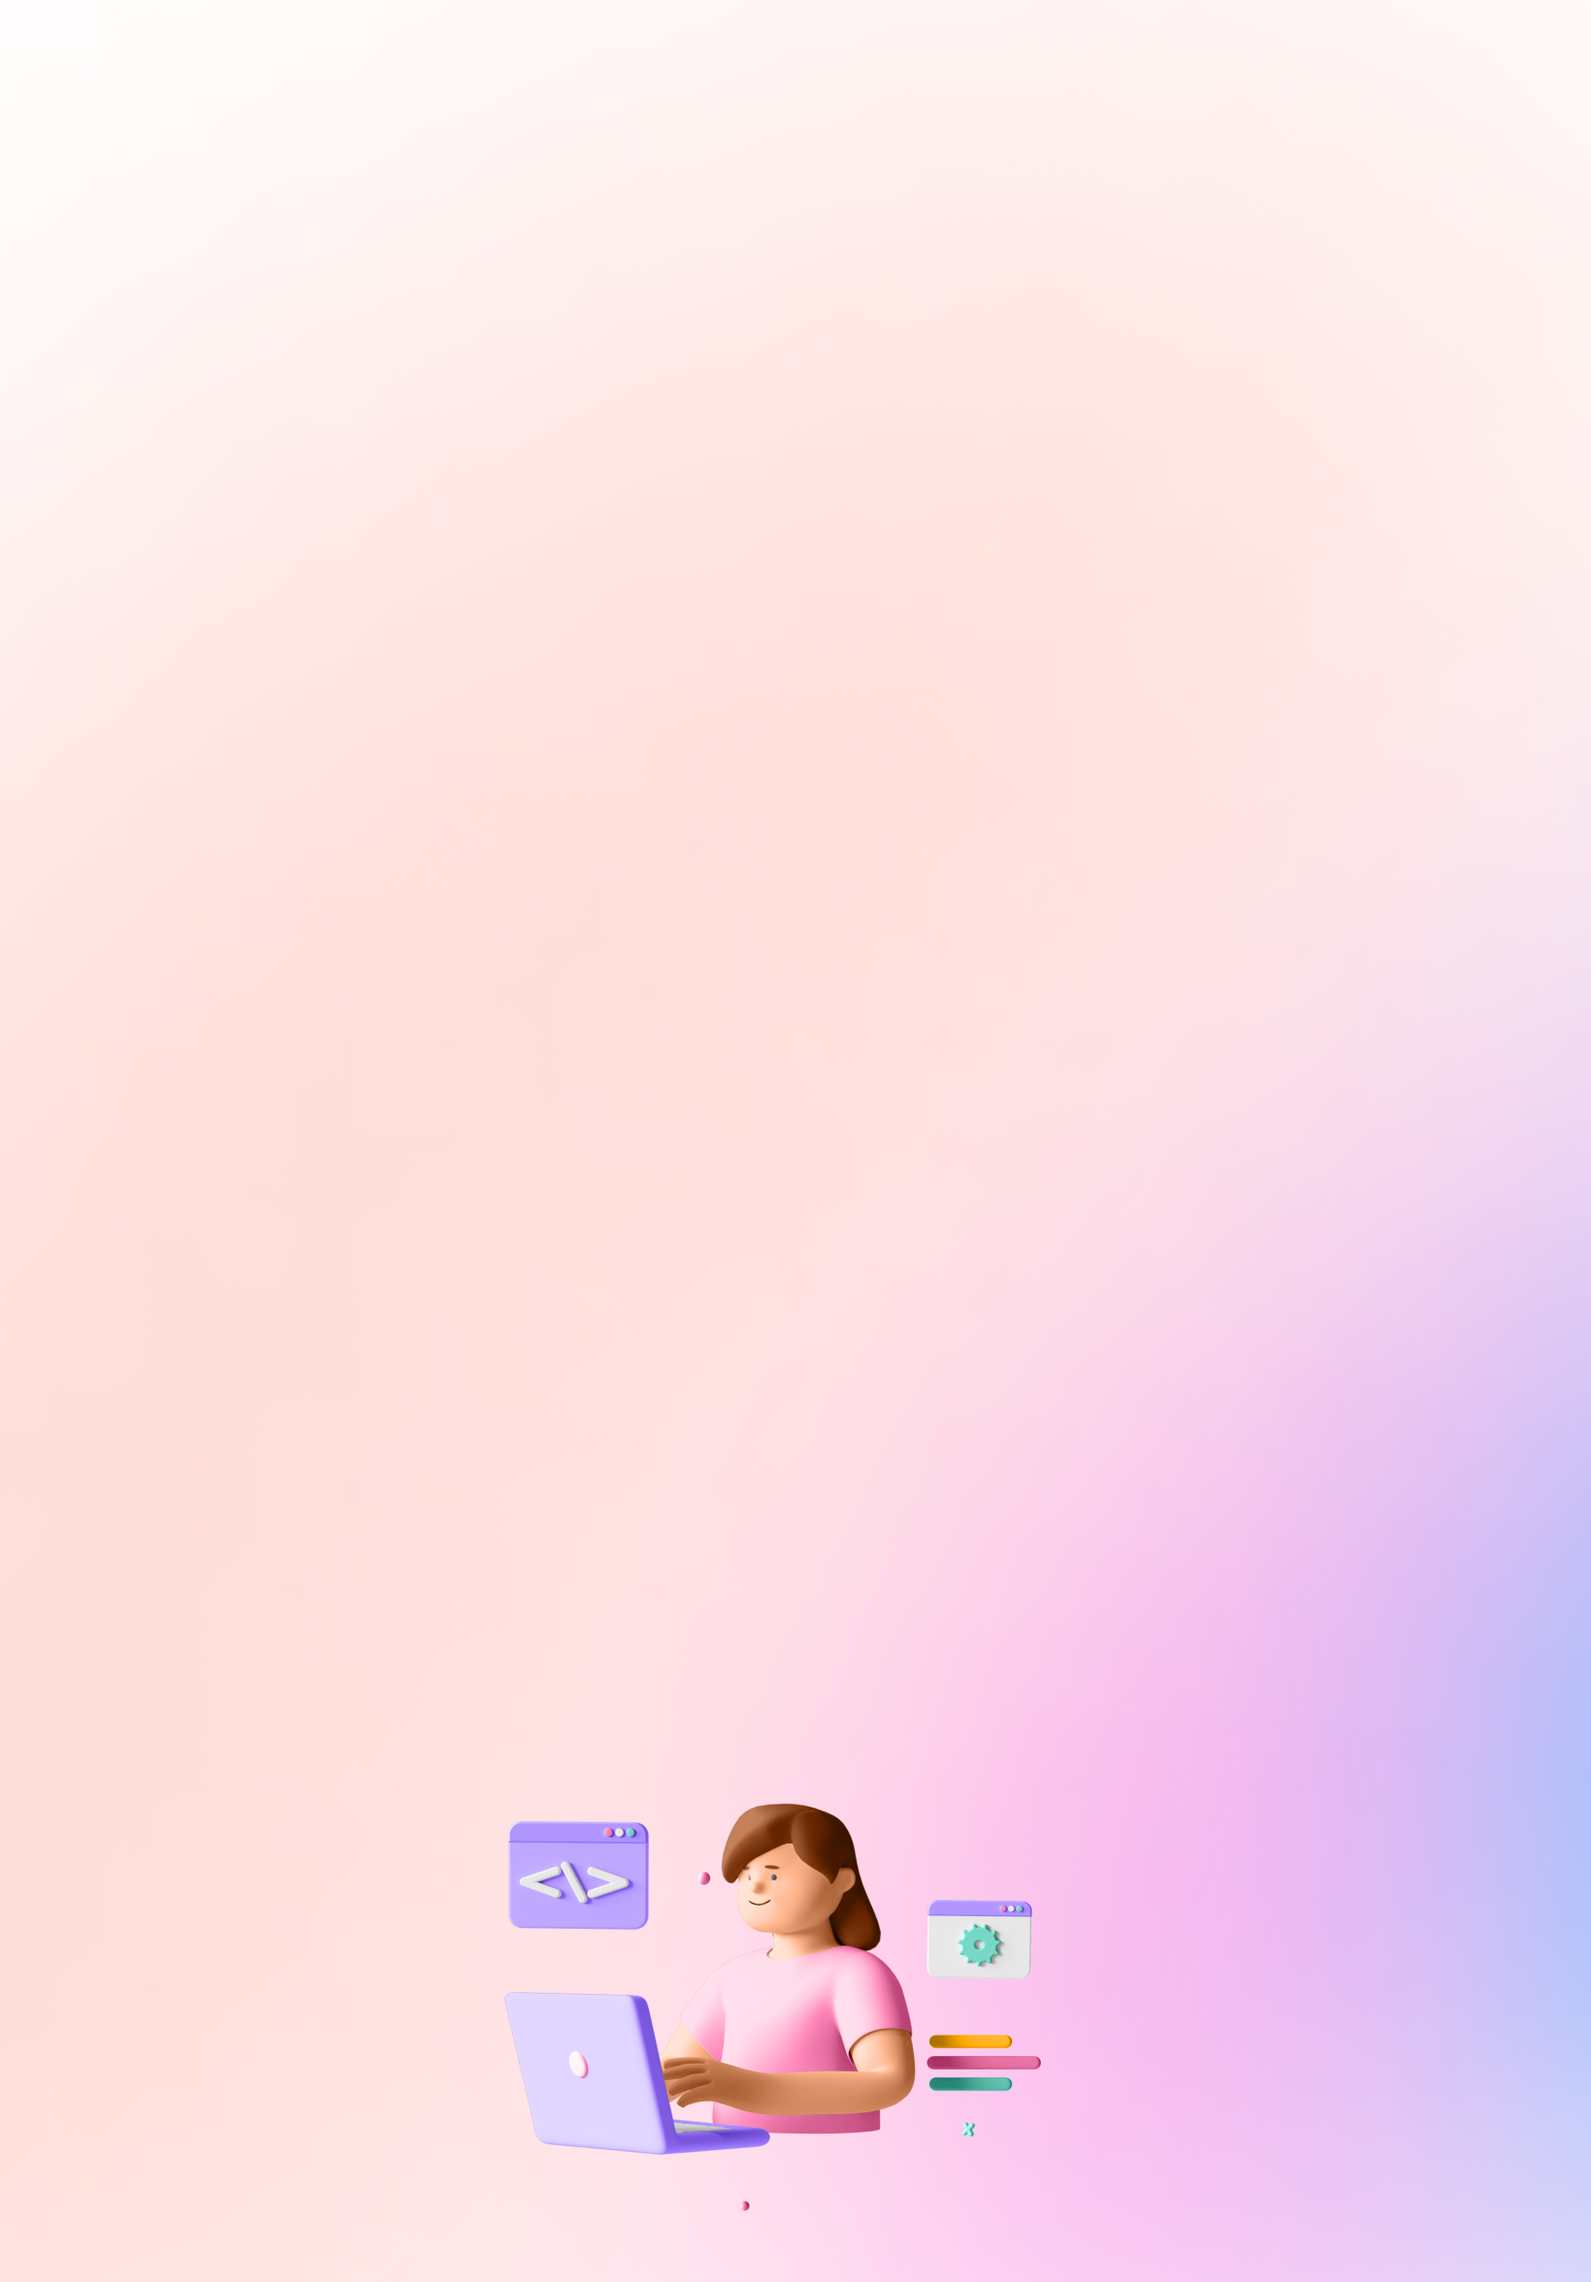
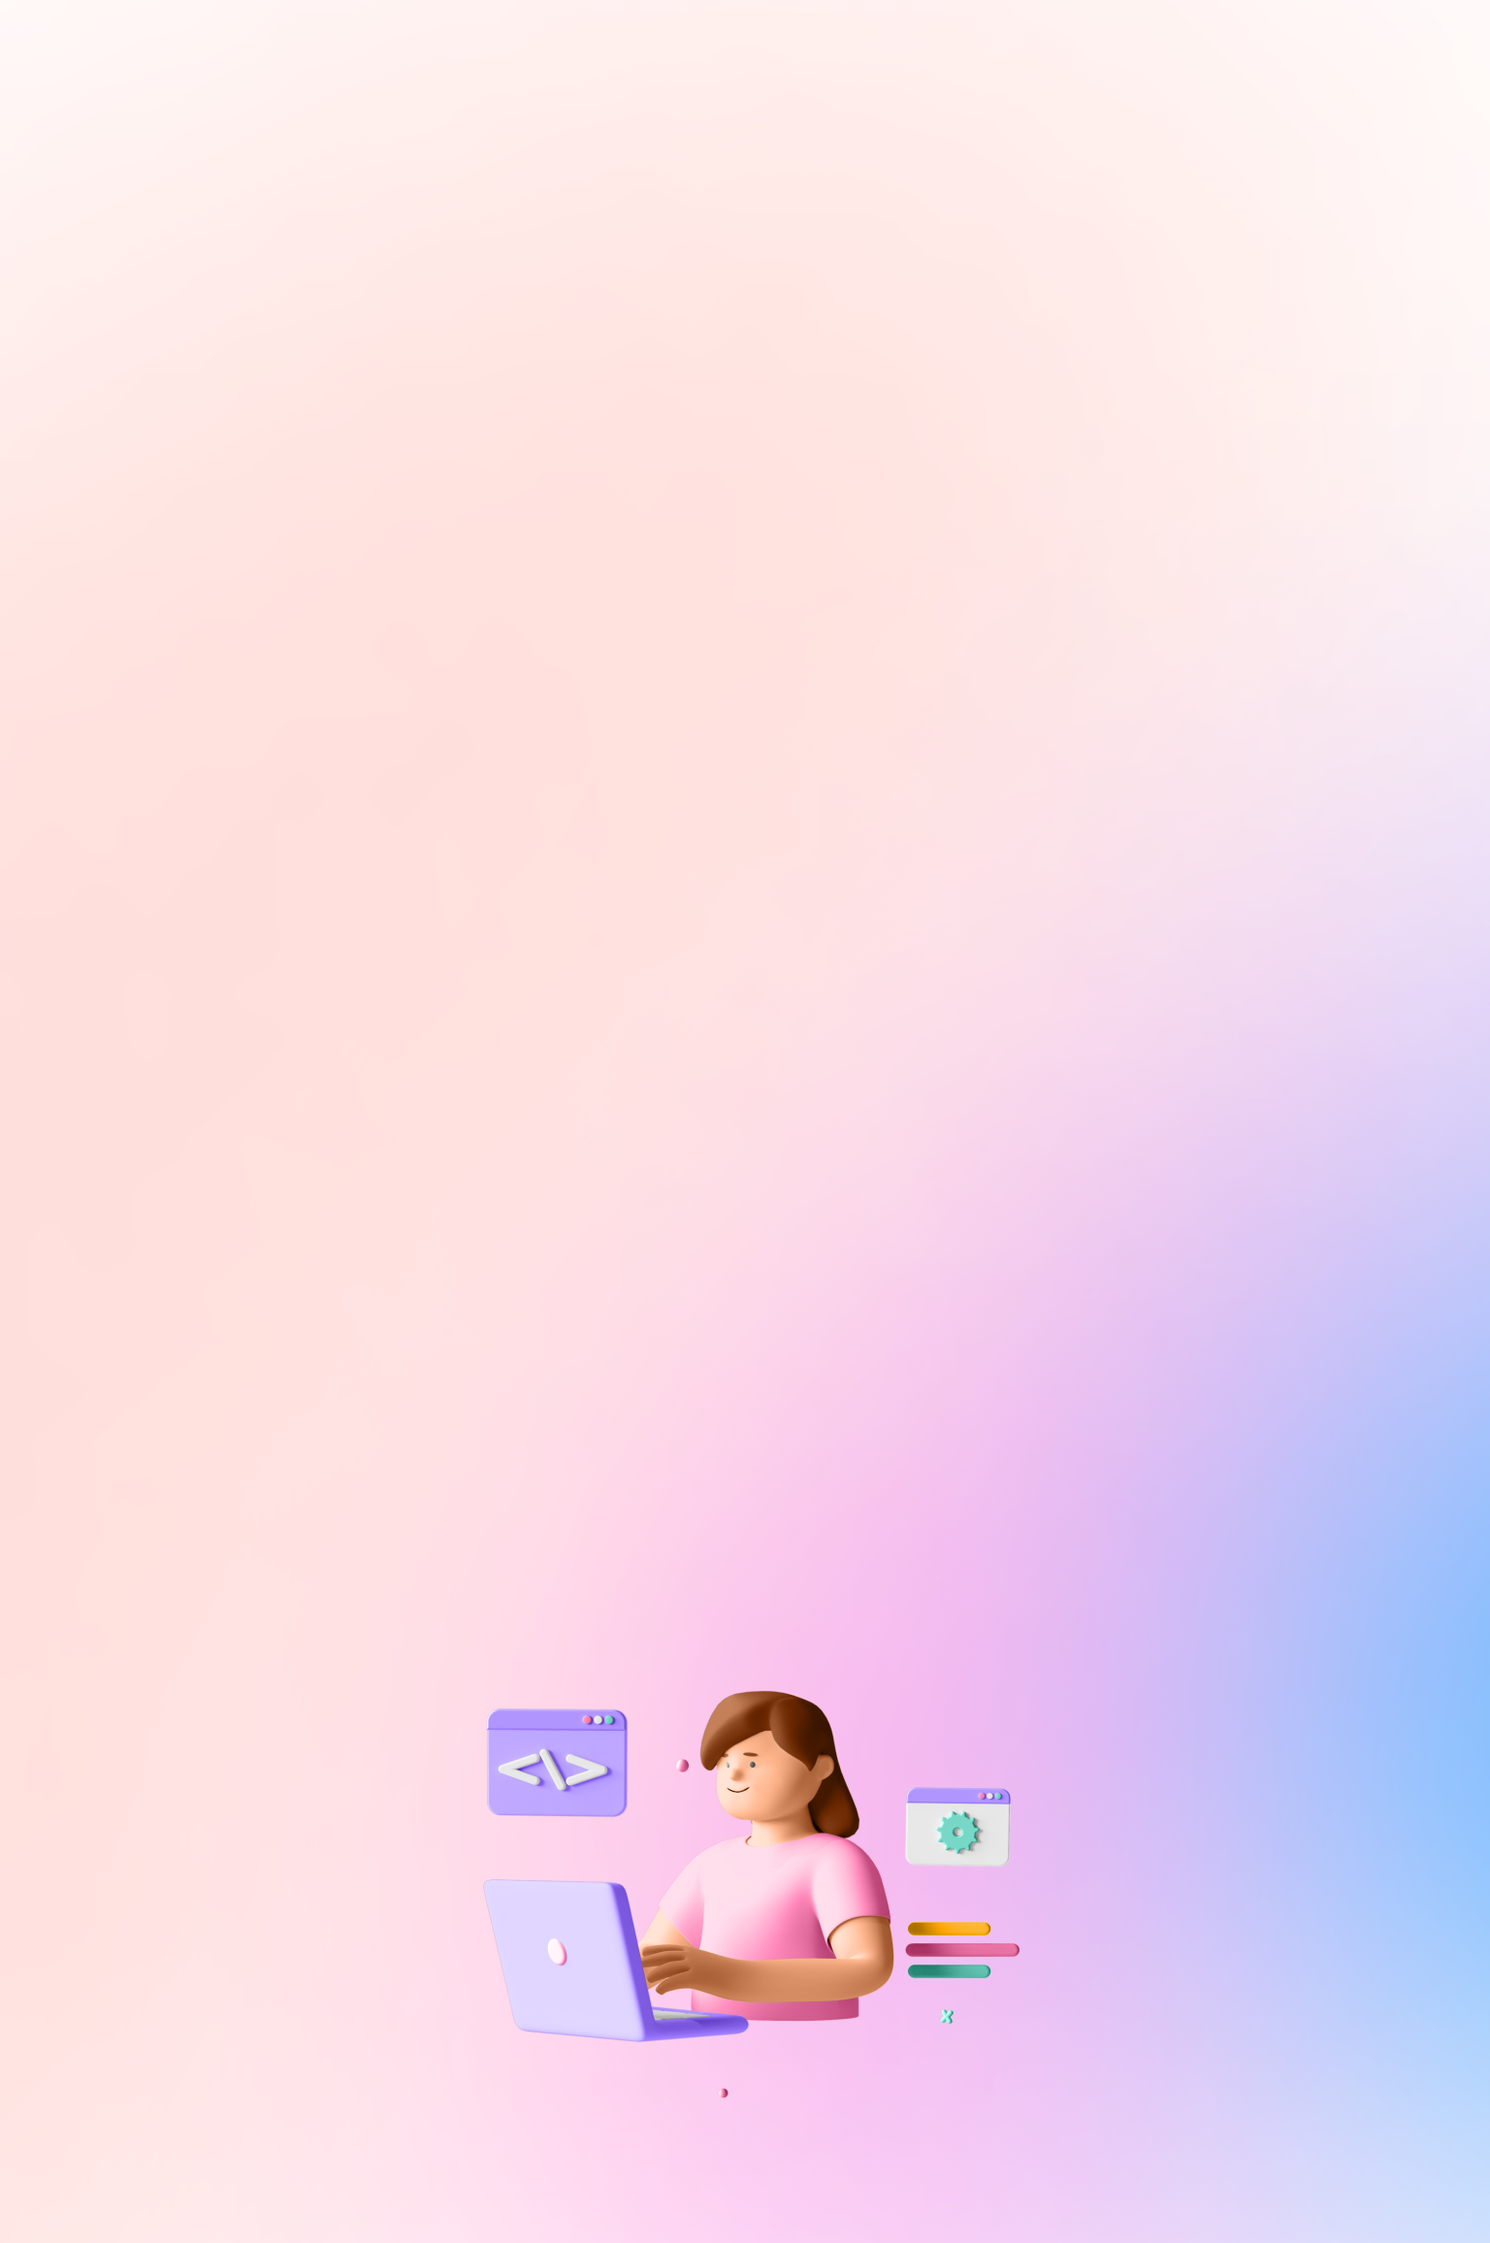
updated image, fix answer form

Changed region(s): [[0.7188, 0.4983, 1.0, 0.9343], [0.3125, 0.7474, 0.6875, 0.9654]]

diff --git a/src/assets/js/quiz.js b/src/assets/js/quiz.js
@@ -16,7 +16,7 @@ export const refs = {
   countQuestionSpan: quizWrapper?.querySelector('.count-question-span'),
   form: document.querySelector('#coursesAll'),
 };
-
+const selectedAnswers = {};
 const categoryConfig = {
   Python: {
     countsKey: 'Python',
@@ -31,7 +31,7 @@ const categoryConfig = {
       large: './assets/images/sections/quiz/python-bg-lap.webp',
       extraLarge: './assets/images/sections/quiz/python-bg-desk.webp'
     },
-    title: 'Ідеальний напрям для вашої дитини — <br class="sm:hidden"> Python!',
+    title: 'Ідеальний напрям для вашої дитини — <br class="xs:hidden"> Python!',
     subtitle: 'Записатися на безоплатний урок з Python'
   },
   Design: {
@@ -47,14 +47,14 @@ const categoryConfig = {
       large: './assets/images/sections/quiz/design-bg-lap.webp',
       extraLarge: './assets/images/sections/quiz/design-bg-desk.webp'
     },
-    title: 'Ідеальний напрям для вашої дитини — <br class="sm:hidden"> Design!',
+    title: 'Ідеальний напрям для вашої дитини — <br class="xs:hidden"> Design!',
     subtitle: 'Записатися на безоплатний урок з Design'
   },
   Frontend: {
     countsKey: 'Frontend',
     benefits: [
       "<b>На першому уроці</b> ваша дитина створить власний простий сайт",
-      "<b>На курсі</b> і вивчатиме HTML, CSS, JavaScript та основи сучасних фреймворків",
+      "<b>На курсі</b> вивчатиме HTML, CSS, JavaScript та основи сучасних фреймворків",
       "<b>Перспективи:</b> кар'єра веброзробника, full-stack інженера, frontend-розробника"
     ],
     backgrounds: {
@@ -63,7 +63,7 @@ const categoryConfig = {
       large: './assets/images/sections/quiz/frontend-bg-lap.webp',
       extraLarge: './assets/images/sections/quiz/frontend-bg-desk.webp'
     },
-    title: 'Ідеальний напрям для вашої дитини — <br class="sm:hidden"> Frontend!',
+    title: 'Ідеальний напрям для вашої дитини — <br class="xs:hidden"> Frontend!',
     subtitle: 'Записатися на безоплатний урок з Frontend'
   },
   GameDev: {
@@ -79,7 +79,7 @@ const categoryConfig = {
       large: './assets/images/sections/quiz/game-dev-bg-lap.webp',
       extraLarge: './assets/images/sections/quiz/game-dev-bg-desk.webp'
     },
-    title: 'Ідеальний напрям для вашої дитини — <br class="sm:hidden"> GameDev!',
+    title: 'Ідеальний напрям для вашої дитини — <br class="xs:hidden"> GameDev!',
     subtitle: 'Записатися на безоплатний урок з GameDev'
   }
 };
@@ -121,8 +121,6 @@ document.addEventListener('DOMContentLoaded', () => {
 
     if (currentStep >= refs.quizItems.length) {
       refs.sectionStepTwo.classList.add('translate-x-[-100%]');
-      // refs.sectionStepTwo.classList.remove('right-0');
-
       refs.sectionStepThree.classList.remove('right-[-100%]');
       refs.sectionStepThree.classList.add('right-0');
 
@@ -167,10 +165,23 @@ document.addEventListener('DOMContentLoaded', () => {
       .join('');
   }
 
+  const handleAnswerChange = (index, selectedCategory) => {
+    // Якщо була вибрана попередня відповідь, скидаємо її з counter
+    if (selectedAnswers[index]) {
+      counts[selectedAnswers[index]]--;
+    }
+
+    // Оновлюємо вибрану відповідь для поточного питання
+    selectedAnswers[index] = selectedCategory;
+    counts[selectedCategory]++;
+
+    console.log("Оновлені counts:", counts);
+  };
 
   refs.quizItems.forEach((item, index) => {
     const radios = item.querySelectorAll('input[type="radio"]');
     radios.forEach(radio => {
+
       radio.addEventListener('change', () => {
 
         const category = radio.parentElement.dataset.id;
@@ -180,9 +191,15 @@ document.addEventListener('DOMContentLoaded', () => {
 
           refs.sectionStepOne.classList.remove('min-h-[888px]', "md:h-[1344px]", "xl:h-[80vh]");
         }
+        handleAnswerChange(index, category);
+        // counts[categoryConfig[category].countsKey]++;
+        let maxCategory = Object.keys(counts).reduce((a, b) => counts[a] > counts[b] ? a : b);
+        const uniqueValues = new Set(Object.values(counts));
 
-        counts[categoryConfig[category].countsKey]++;
-        const maxCategory = Object.keys(counts).reduce((a, b) => counts[a] > counts[b] ? a : b);
+        if (uniqueValues.size === Object.keys(counts).length - 2) {
+          console.log(category);
+          maxCategory = category;
+        }
         updateUI(maxCategory, refs);
 
         console.log(maxCategory);
@@ -190,6 +207,8 @@ document.addEventListener('DOMContentLoaded', () => {
         window.addEventListener('resize', () => {
           refs.sectionStepThree.style.backgroundImage = `url(${updateBackground(categoryConfig[maxCategory].backgrounds)})`;
         });
+
+
 
 
         console.log(counts);
@@ -213,8 +232,14 @@ document.addEventListener('DOMContentLoaded', () => {
   refs.quizItems.forEach((item, index) => {
     item.addEventListener('click', (e) => {
       if (e.target.classList.contains('back-btn')) {
+        // resetRadioButtons(currentStep);
         currentStep--;
         updateQuizStep();
+        const prevRadios = refs.quizItems[currentStep]?.querySelectorAll('input[type="radio"]');
+
+        prevRadios.forEach(prevRadio => {
+          prevRadio.checked = false; // Робимо кнопку доступною
+        });
       }
     })
   })

diff --git a/src/assets/scss/vendors/_tailwind.scss b/src/assets/scss/vendors/_tailwind.scss
@@ -50,7 +50,7 @@ body {
 
 .btn-submit {
   @apply block w-full rounded-[104px] border xl:basis-[calc((100%_-_1.5rem)/2)]
-   bg-[#C7F22D]  text-center text-sm  text-black-1A transition-colors duration-200  hover:bg-[#A9D703] focus-visible:bg-[#A9D703] active:bg-[#D3F652]  font-bold h-10;
+   bg-[#C7F22D]  text-center text-sm  text-black-1A transition-colors duration-200  hover:bg-[#A9D703] focus-visible:bg-[#A9D703] active:bg-[#D3F652]  font-bold h-10 xxl:text-base;
 }
 
 .visually-hidden {

diff --git a/src/assets/scss/sections/_step-1.scss b/src/assets/scss/sections/_step-1.scss
@@ -1,8 +1,8 @@
 .step-1 {
   background-image: url(../images/sections/step-1/bg-mob.webp);
   background-repeat: no-repeat;
-  background-size: 2400px auto;
-  background-position: top -240px left calc(50% + 205px);
+  background-size: 768px auto;
+  background-position: top 0px left calc(50% + 0px);
 
   @include mq(tablet) {
     background-image: url(../images/sections/step-1/bg-tab.webp);

diff --git a/src/assets/scss/sections/_step-2.scss b/src/assets/scss/sections/_step-2.scss
@@ -2,7 +2,7 @@
   @apply md:min-h-[80vh] md:h-[1344px] xl:h-full;
   background-image: url(../images/sections/step-2/bg-mob.webp);
   background-repeat: no-repeat;
-  background-size: 768px 888px;
+  background-size: 768px auto;
   background-position: top 0px left calc(50% + 0px);
 
   @include mq(tablet) {

diff --git a/src/assets/scss/sections/_step-3.scss b/src/assets/scss/sections/_step-3.scss
@@ -1,7 +1,7 @@
 .step-3 {
   @apply min-h-[1140px] md:min-h-[960px] xl:min-h-[80vh];
   background-repeat: no-repeat;
-  background-size: 820px auto;
+  background-size: 768px auto;
   background-position: bottom center;
   // background-image: url(../images/sections/quiz/python-bg.webp);
 

diff --git a/tailwind.config.js b/tailwind.config.js
@@ -5,7 +5,7 @@ module.exports = {
   theme: {
     // MEDIA QUERIES
     screens: {
-      // xs: '375px', // (goiteens)
+      xs: '430px', // (goiteens)
       sm: '480px',
       md: '768px',
       xl: '1280px',
